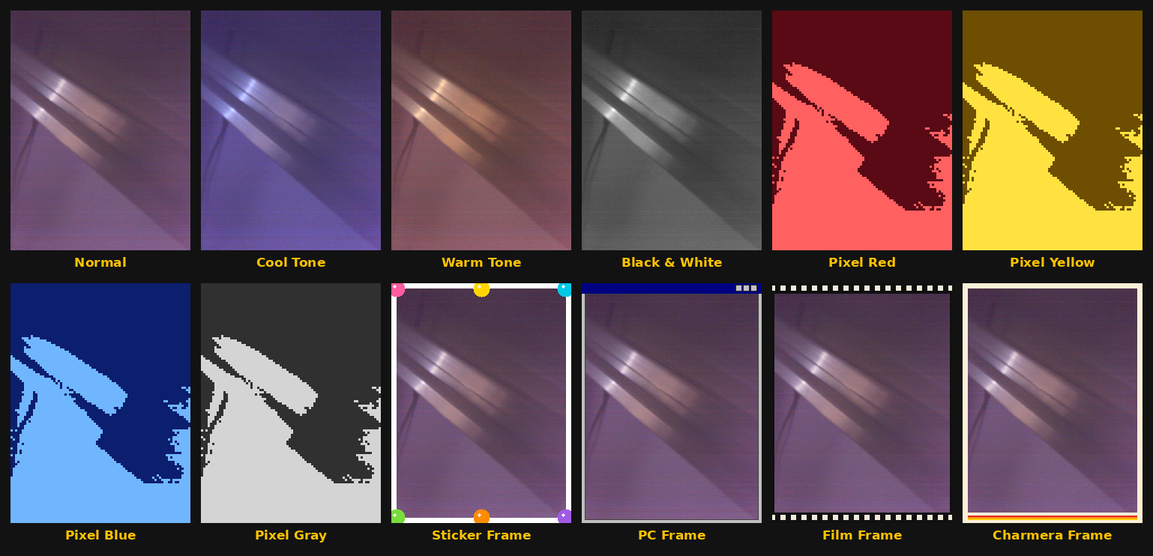
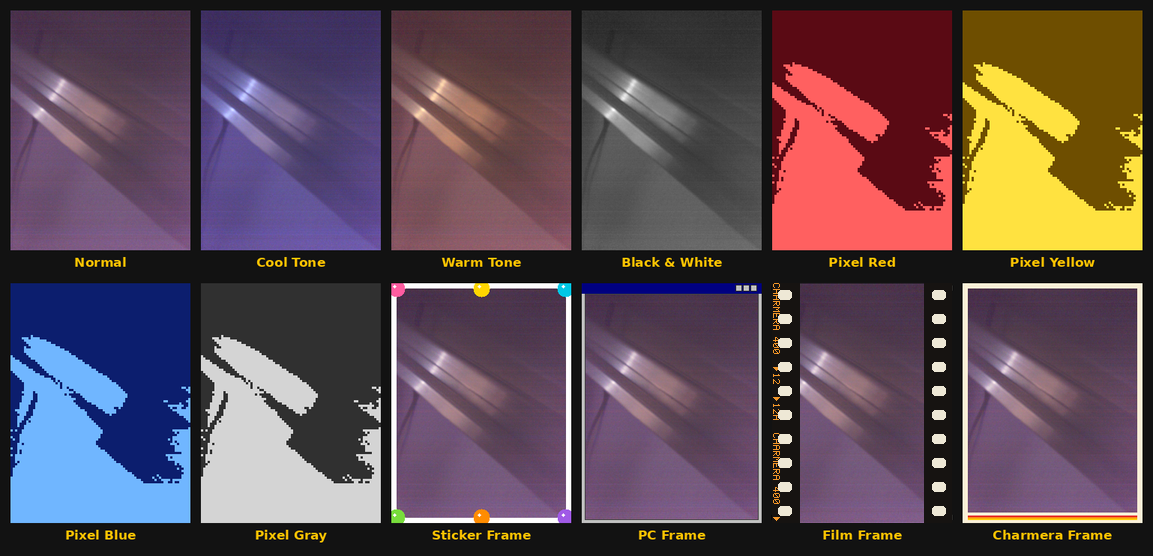
fix(looks): Film Frame drawn to real 35 mm proportions — rails along the long edges, rounded sprocket holes, edge print

Changed region(s): [[0.6557, 0.4892, 0.843, 0.9478]]

diff --git a/components/looks/src/frames.c b/components/looks/src/frames.c
@@ -6,7 +6,7 @@
 /* Frames are drawn procedurally from absolute image coordinates, so any strip split
    gives the same picture. All decoration stays within FRAME_REACH * t of the edges,
    where t = the short edge / 32. */
-#define FRAME_REACH 3
+#define FRAME_REACH 6 /* the film rails are about 5 units wide */
 
 typedef struct {
     int w, h, t;
@@ -83,27 +83,102 @@ static bool pc_window(const geom_t *g, int x, int y, uint8_t *p)
     return false;
 }
 
+/* ---- Film Frame: a strip of 35 mm film ----
+   Real 35 mm stock is 35 mm wide; the sprocket rails along both long edges are 5.5 mm
+   each, with KS perforations 2.8 mm across x 2.0 mm along on a 4.75 mm pitch, and edge
+   printing in the outer margin. The film runs along the photo's long side, so the film
+   width is the short edge. Distances are tenths of a millimetre of that film. */
+
+#define FILM_RAIL     55  /* 5.5 mm */
+#define FILM_HOLE_OUT 13  /* hole starts 1.3 mm from the film edge */
+#define FILM_HOLE_AX  28  /* hole size across the film */
+#define FILM_HOLE_AL  20  /* hole size along the film */
+#define FILM_PITCH    475 /* hundredths of a mm: 4.75 mm */
+#define FILM_RADIUS   5   /* hole corner radius 0.5 mm */
+#define FILM_TEXT_AT  3   /* edge print from 0.3 mm ... */
+#define FILM_TEXT_H   8   /* ... 0.8 mm tall */
+
+/* 5x7 glyphs for the edge print, one byte per row, bit 4 = left column. */
+static const char FILM_TEXT[] = "CHARMERA 400  >12  >12A  ";
+static uint8_t film_glyph_row(char c, int row)
+{
+    static const struct {
+        char c;
+        uint8_t rows[7];
+    } GLYPHS[] = {
+        {'C', {0x0e, 0x11, 0x10, 0x10, 0x10, 0x11, 0x0e}}, {'H', {0x11, 0x11, 0x11, 0x1f, 0x11, 0x11, 0x11}},
+        {'A', {0x0e, 0x11, 0x11, 0x1f, 0x11, 0x11, 0x11}}, {'R', {0x1e, 0x11, 0x11, 0x1e, 0x14, 0x12, 0x11}},
+        {'M', {0x11, 0x1b, 0x15, 0x15, 0x11, 0x11, 0x11}}, {'E', {0x1f, 0x10, 0x10, 0x1e, 0x10, 0x10, 0x1f}},
+        {'4', {0x02, 0x06, 0x0a, 0x12, 0x1f, 0x02, 0x02}}, {'0', {0x0e, 0x11, 0x13, 0x15, 0x19, 0x11, 0x0e}},
+        {'1', {0x04, 0x0c, 0x04, 0x04, 0x04, 0x04, 0x0e}}, {'2', {0x0e, 0x11, 0x01, 0x02, 0x04, 0x08, 0x1f}},
+        {'>', {0x10, 0x18, 0x1c, 0x1e, 0x1c, 0x18, 0x10}}, /* the frame-number arrow, filled */
+    };
+    for (size_t i = 0; i < sizeof(GLYPHS) / sizeof(GLYPHS[0]); i++) {
+        if (GLYPHS[i].c == c) {
+            return GLYPHS[i].rows[row];
+        }
+    }
+    return 0; /* space */
+}
+
+/* True if (along, across) inside a w x h rectangle with corner radius r is in the shape. */
+static bool rounded_rect(int along, int across, int w, int h, int r)
+{
+    if (along < 0 || across < 0 || along >= w || across >= h) {
+        return false;
+    }
+    const int cx = along < r ? r : (along >= w - r ? w - 1 - r : along);
+    const int cy = across < r ? r : (across >= h - r ? h - 1 - r : across);
+    const int dx = along - cx, dy = across - cy;
+    return dx * dx + dy * dy <= r * r;
+}
+
 static bool film(const geom_t *g, int x, int y, uint8_t *p)
 {
-    const int t = g->t, band = 2 * t, side = t / 2;
-    const bool top = y < band, bottom = y >= g->h - band;
-    if (top || bottom) {
-        const int by = top ? 0 : g->h - band;
-        const int hole_top = by + (band - t) / 2;
-        const int pitch = 2 * t, off = t / 2;
-        const bool in_hole = y >= hole_top && y < hole_top + t && ((x + off) % pitch) < t;
-        if (in_hole) {
-            put(p, 240, 235, 220);
-        } else {
-            put(p, 16, 16, 16);
+    const bool tall = g->h >= g->w;
+    const int S = tall ? g->w : g->h; /* film width */
+    const int across_px = tall ? x : y;
+    const int along = tall ? y : x;
+#define FMM(tenths) (S * (tenths) / 350)
+    const int rail = FMM(FILM_RAIL);
+    int d; /* distance from the nearer film edge */
+    bool first_edge;
+    if (across_px < rail) {
+        d = across_px;
+        first_edge = true;
+    } else if (across_px >= S - rail) {
+        d = S - 1 - across_px;
+        first_edge = false;
+    } else {
+        return false; /* the picture */
+    }
+    /* Sprocket holes: backlit, rounded, centred on the pitch. */
+    const int pitch = S * FILM_PITCH / 3500;
+    const int hole_al = FMM(FILM_HOLE_AL), hole_ax = FMM(FILM_HOLE_AX);
+    const int radius = FMM(FILM_RADIUS) < 1 ? 1 : FMM(FILM_RADIUS);
+    const int in_pitch = pitch > 0 ? (along + (hole_al - pitch) / 2 % pitch + pitch) % pitch : 0;
+    if (rounded_rect(in_pitch, d - FMM(FILM_HOLE_OUT), hole_al, hole_ax, radius)) {
+        put(p, 238, 232, 214);
+        return true;
+    }
+    /* Edge print in the outer margin of the first rail, reading along the film. */
+    const int px = FMM(FILM_TEXT_H) / 7 < 1 ? 1 : FMM(FILM_TEXT_H) / 7;
+    const int ty = d - FMM(FILM_TEXT_AT);
+    if (first_edge && ty >= 0 && ty < 7 * px) {
+        const int cell = 6 * px, len = (int)sizeof(FILM_TEXT) - 1;
+        const int col = along / px % 6, ch = along / cell % len;
+        /* text runs along the film; glyph rows run away from the edge */
+        /* Landscape: letter tops face the film edge. Portrait (text turned clockwise to
+           read downwards): letter tops face the picture, so rows count back from it. */
+        const int row = tall ? 6 - ty / px : ty / px;
+        if (col < 5 && (film_glyph_row(FILM_TEXT[ch], row) >> (4 - col) & 1)) {
+            put(p, 242, 150, 40);
+            return true;
         }
-        return true;
     }
-    if (x < side || x >= g->w - side) {
-        put(p, 16, 16, 16);
-        return true;
-    }
-    return false;
+    put(p, 22, 19, 17); /* film base */
+    return true;
+#undef FMM
 }
 
 static bool charmera(const geom_t *g, int x, int y, uint8_t *p)

diff --git a/tests/host/test_looks.c b/tests/host/test_looks.c
@@ -374,6 +374,56 @@ static void test_landscape_view_uses_short_edge(void)
     look_set_pixel_threshold(128);
 }
 
+/* Film Frame: 35 mm proportions. Rails with sprocket holes run along the photo's LONG
+   edges and are 5.5/35 of the short edge wide; the picture between them is untouched. */
+static void film_check(int w, int h)
+{
+    uint8_t *img = malloc((size_t)w * h * 3);
+    memset(img, 0x80, (size_t)w * h * 3); /* mid grey, so frame pixels stand out */
+    look_apply_rgb888(LOOK_FRAME_FILM, img, w, h, 0, w, h);
+    const bool tall = h >= w;
+    const int S = tall ? w : h, L = tall ? h : w;
+    const int rail = S * 55 / 350;
+    int holes = 0, prev_cream = 0;
+    for (int u = 0; u < L; u++) {
+        /* across = distance from one long edge; u = along the film */
+        int changed_rail = 0, cream = 0;
+        for (int a = 0; a < rail - 1; a++) {
+            const int x = tall ? a : u, y = tall ? u : a;
+            const uint8_t *p = img + ((size_t)y * w + x) * 3;
+            changed_rail += p[0] != 0x80 || p[1] != 0x80 || p[2] != 0x80;
+            cream |= p[0] > 200 && p[1] > 200 && p[2] > 180; /* a backlit sprocket hole */
+        }
+        TEST_ASSERT_EQUAL_MESSAGE(rail - 1, changed_rail, "rail fully covered");
+        /* just inside the rail on both sides: the picture */
+        for (int a = rail + 2; a < rail + 6; a++) {
+            const int x1 = tall ? a : u, y1 = tall ? u : a;
+            const int x2 = tall ? S - 1 - a : u, y2 = tall ? u : S - 1 - a;
+            TEST_ASSERT_EQUAL_HEX8_MESSAGE(0x80, img[((size_t)y1 * w + x1) * 3], "picture left untouched");
+            TEST_ASSERT_EQUAL_HEX8_MESSAGE(0x80, img[((size_t)y2 * w + x2) * 3], "picture left untouched");
+        }
+        holes += cream && !prev_cream;
+        prev_cream = cream;
+    }
+    /* 4.75 mm pitch along the film */
+    const float pitch_mm = 4.75f, film_mm = 35.0f;
+    const int want = (int)(L / (S * pitch_mm / film_mm));
+    TEST_ASSERT_INT_WITHIN_MESSAGE(2, want, holes, "sprocket hole count along the long edge");
+    free(img);
+}
+
+static void test_film_frame_portrait(void)
+{
+    film_check(240, 320);
+    film_check(1200, 1600);
+}
+
+static void test_film_frame_landscape(void)
+{
+    film_check(320, 240);
+    film_check(1600, 1200);
+}
+
 int main(void)
 {
     UNITY_BEGIN();
@@ -393,5 +443,7 @@ int main(void)
     RUN_TEST(test_sensor_strips_match_portrait_for_every_look);
     RUN_TEST(test_sensor_strips_match_view_every_orientation);
     RUN_TEST(test_landscape_view_uses_short_edge);
+    RUN_TEST(test_film_frame_portrait);
+    RUN_TEST(test_film_frame_landscape);
     return UNITY_END();
 }

diff --git a/docs/build-decisions.md b/docs/build-decisions.md
@@ -79,6 +79,12 @@ Every call made on the owner's behalf during the build, in order, from the build
 - Fixed while here: since the EXIF change, the gallery read Orientation only from the first IFD0 tag (now ImageDescription), so OV5640 photos showed sideways; replaced by a real IFD walk with bounds checks (host-tested, including malformed files). The gallery now fits any photo shape on either screen shape (decode at >= 1/8, then nearest-neighbour scale).
 - NOT run on the board (owner kept it unplugged). Four constants are derived, not measured: ORIENT_SENSOR_NATIVE = USB-C left (from the verified portrait mapping), ORIENT_LEFT_DEG = +90 (from the owner-checked portrait level; an older landscape tilt log disagrees), LVGL rotation 90 = USB-C left (LVGL's clockwise naming), INPUT_DOWN_SIGN = +1 (landscape level only). The boot log prints the raw gravity values to check them.
 
+## Film Frame redesign (owner: "too narrow ... needs to be fuller")
+
+- Analysis: the old frame drew 2t bands across the short ends with small square holes and t/2 sides, so on a portrait photo the "film" ran the wrong way and covered ~5% of the edge. Real 35 mm film has its sprocket rails along the long edges, each 5.5 of 35 mm (15.7%).
+- Ruling: rebuilt from real 35 mm dimensions, scaled so the film width is the photo's short edge: 5.5 mm rails along both long edges, rounded KS perforations (2.8 x 2.0 mm, 4.75 mm pitch, backlit cream), near-black film base, and amber edge print in the outer margin ("CHARMERA 400 >12 >12A"; original text, no Kodak marks), reading along the film. FRAME_REACH raised from 3 to 6 so the wider rails are drawn. Host tests pin the rail width, the untouched picture and the hole count in both orientations; the README looks sheet was re-rendered.
+- The frame code is the same pure C the camera runs; not looked at on the board itself.
+
 ## Deferred minor issues (from the final review)
 
 - "card full" estimate can still fail mid-write on the last photo (now returns Card full via free-space check before writing).
